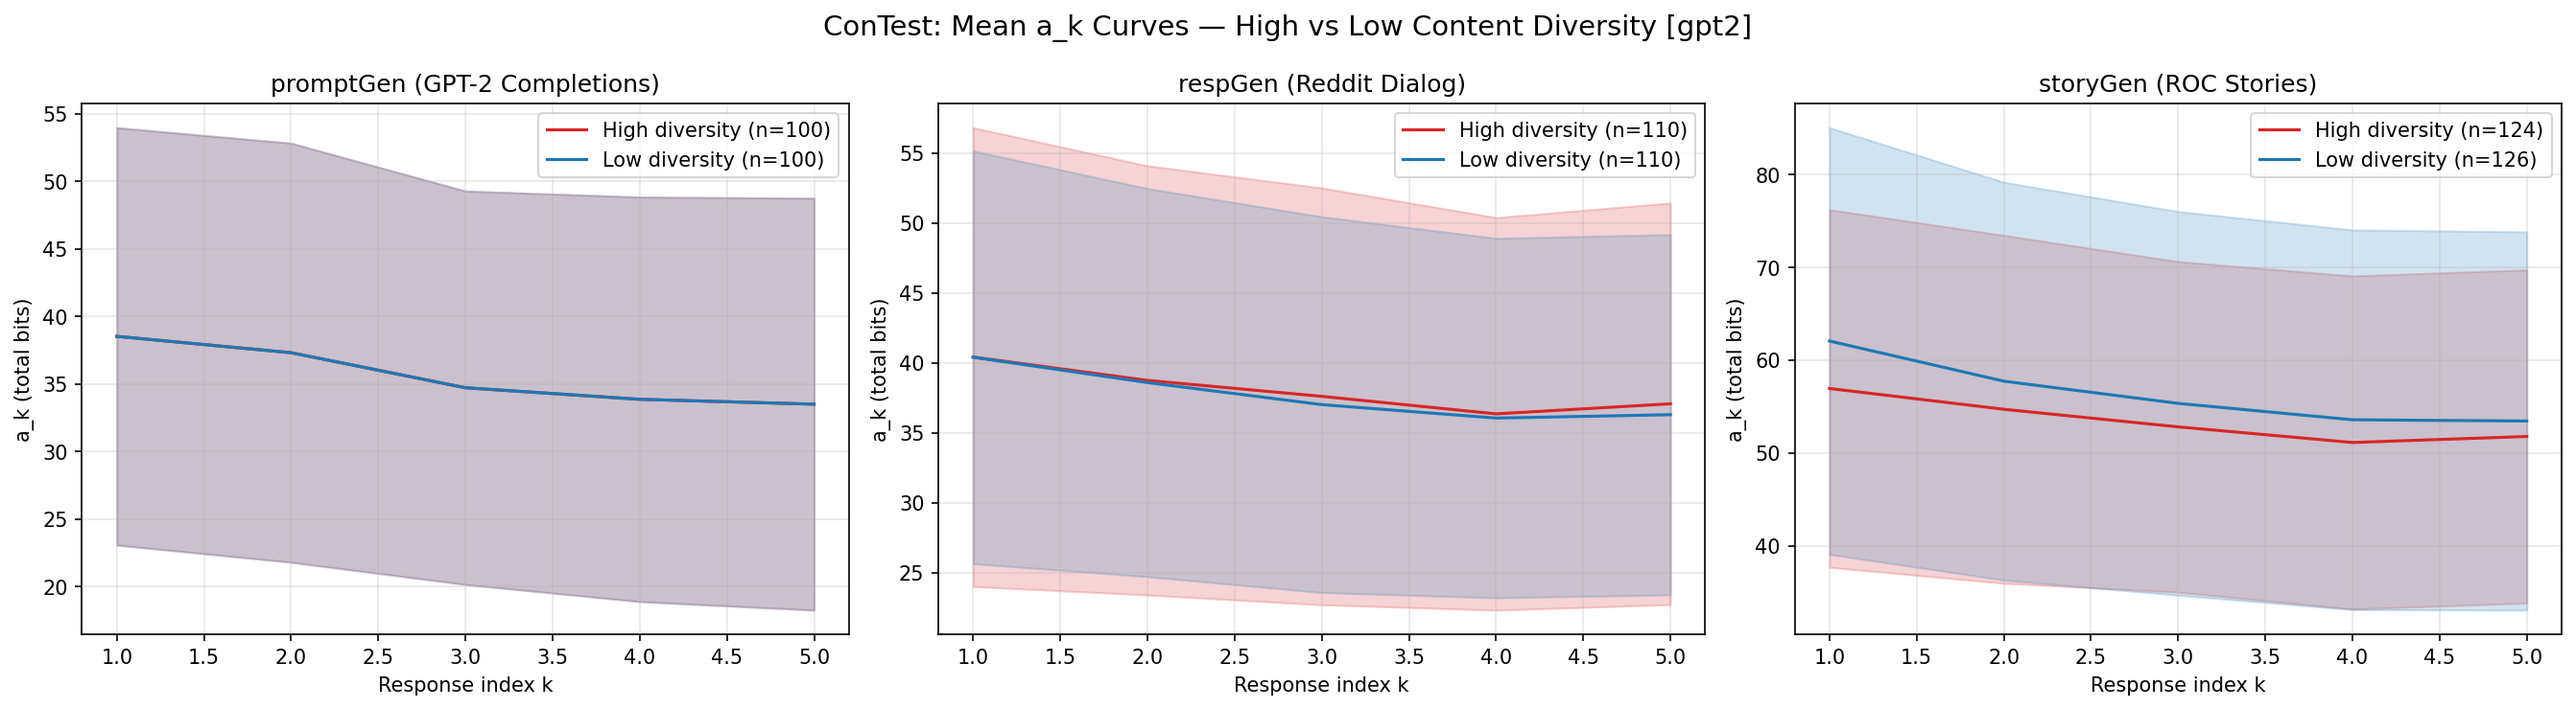
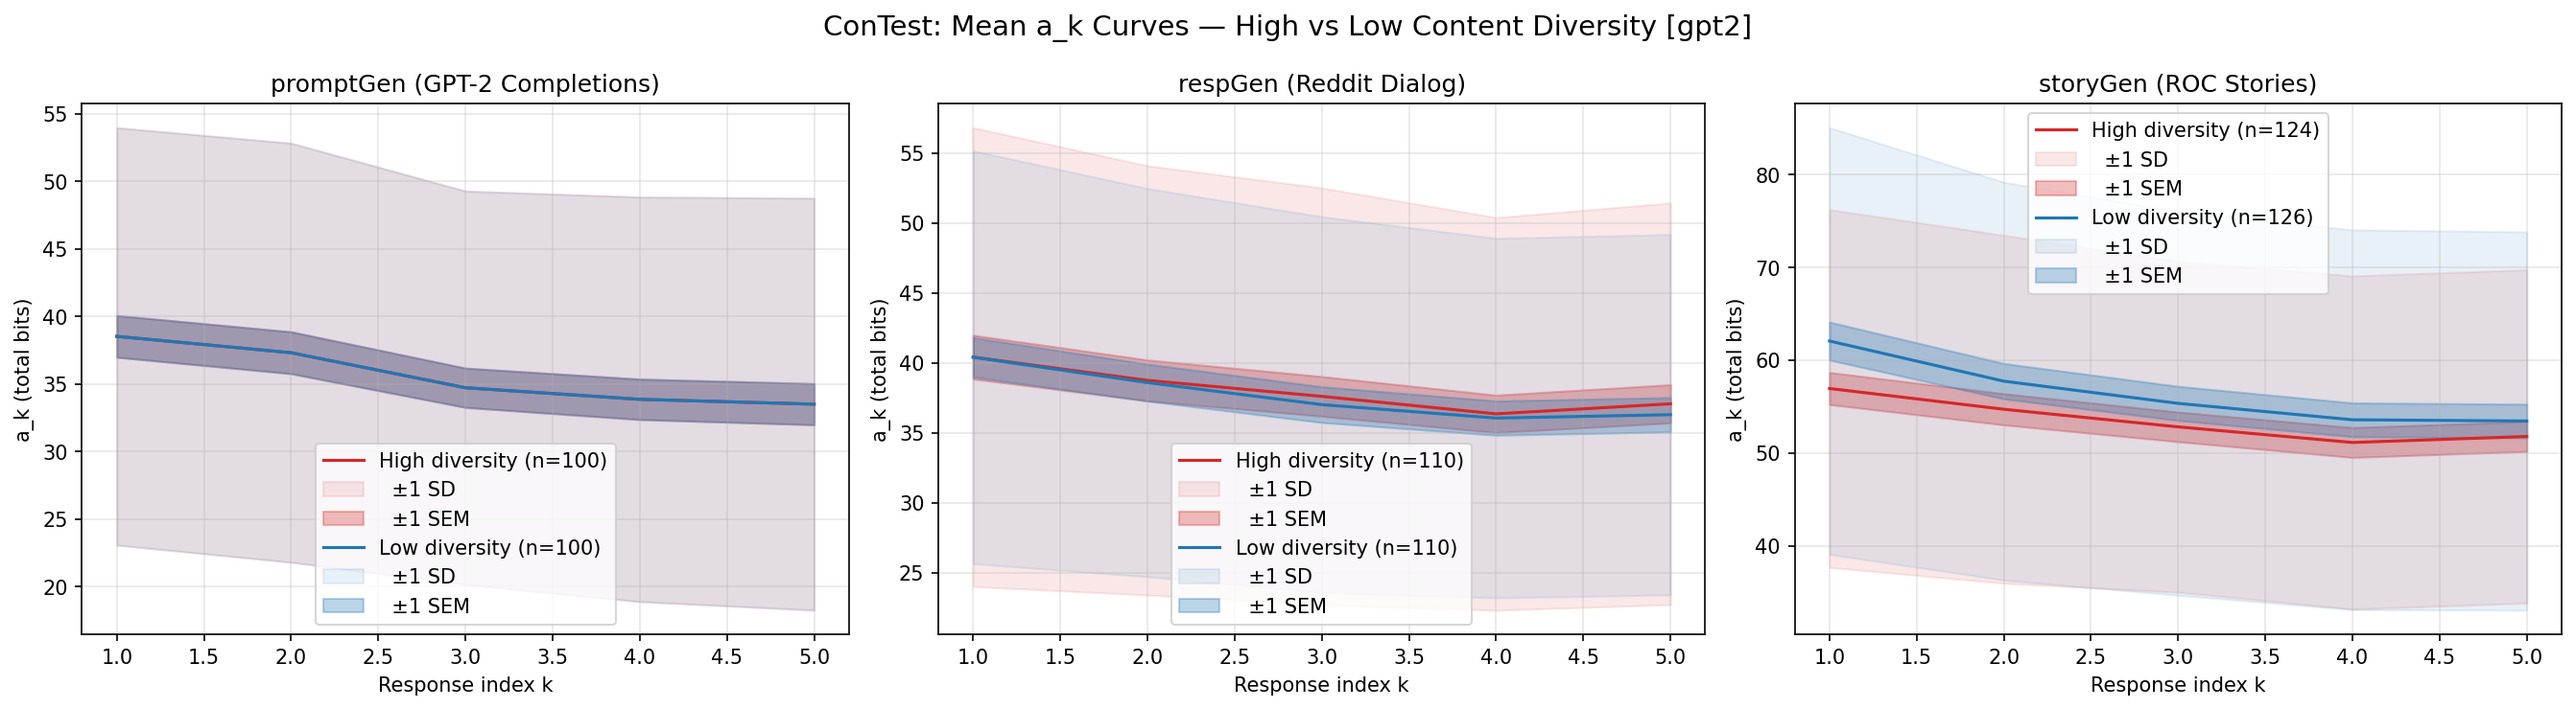
fix: show both ±1 SD (light) and ±1 SEM (dark) bands on a_k plots

diff --git a/scripts/plot_tevet_ak_curves.py b/scripts/plot_tevet_ak_curves.py
@@ -78,6 +78,33 @@ def get_task_name_from_filename(filename: str) -> str:
     return "unknown"
 
 
+def plot_mean_with_bands(
+    ax: plt.Axes,
+    curves: list[list[float]],
+    label: str,
+    color: str,
+) -> None:
+    """Plot mean curve with ±1 SD (light) and ±1 SEM (dark) bands."""
+    max_len = max(len(c) for c in curves)
+    padded = np.full((len(curves), max_len), np.nan)
+    for i, c in enumerate(curves):
+        padded[i, : len(c)] = c
+    n = np.sum(~np.isnan(padded), axis=0)
+    mean_curve = np.nanmean(padded, axis=0)
+    std_curve = np.nanstd(padded, axis=0)
+    sem_curve = std_curve / np.sqrt(np.maximum(n, 1))
+    x = np.arange(1, max_len + 1)
+    ax.plot(x, mean_curve, label=f"{label} (n={len(curves)})", color=color)
+    ax.fill_between(
+        x, mean_curve - std_curve, mean_curve + std_curve,
+        alpha=0.1, color=color, label="  ±1 SD",
+    )
+    ax.fill_between(
+        x, mean_curve - sem_curve, mean_curve + sem_curve,
+        alpha=0.3, color=color, label="  ±1 SEM",
+    )
+
+
 def plot_contest_summary(data_dir: Path, tag: str, output_dir: Path) -> None:
     """Plot mean a_k curves for high vs low diversity per task (ConTest)."""
     contest_dir = data_dir / "conTest"
@@ -123,21 +150,7 @@ def plot_contest_summary(data_dir: Path, tag: str, output_dir: Path) -> None:
         ]:
             if not curves:
                 continue
-            max_len = max(len(c) for c in curves)
-            padded = np.full((len(curves), max_len), np.nan)
-            for i, c in enumerate(curves):
-                padded[i, : len(c)] = c
-            mean_curve = np.nanmean(padded, axis=0)
-            std_curve = np.nanstd(padded, axis=0)
-            x = np.arange(1, max_len + 1)
-            ax.plot(x, mean_curve, label=f"{label} (n={len(curves)})", color=color)
-            ax.fill_between(
-                x,
-                mean_curve - std_curve,
-                mean_curve + std_curve,
-                alpha=0.2,
-                color=color,
-            )
+            plot_mean_with_bands(ax, curves, label, color)
 
         ax.set_xlabel("Response index k")
         ax.set_ylabel("a_k (total bits)")
@@ -275,21 +288,7 @@ def plot_mcdiv_nuggets_summary(data_dir: Path, tag: str, output_dir: Path) -> No
         ]:
             if not curves:
                 continue
-            max_len = max(len(c) for c in curves)
-            padded = np.full((len(curves), max_len), np.nan)
-            for i, c in enumerate(curves):
-                padded[i, : len(c)] = c
-            mean_curve = np.nanmean(padded, axis=0)
-            std_curve = np.nanstd(padded, axis=0)
-            x = np.arange(1, max_len + 1)
-            ax.plot(x, mean_curve, label=f"{label} (n={len(curves)})", color=color)
-            ax.fill_between(
-                x,
-                mean_curve - std_curve,
-                mean_curve + std_curve,
-                alpha=0.2,
-                color=color,
-            )
+            plot_mean_with_bands(ax, curves, label, color)
 
         ax.set_xlabel("Response index k")
         ax.set_ylabel("a_k (total bits)")
